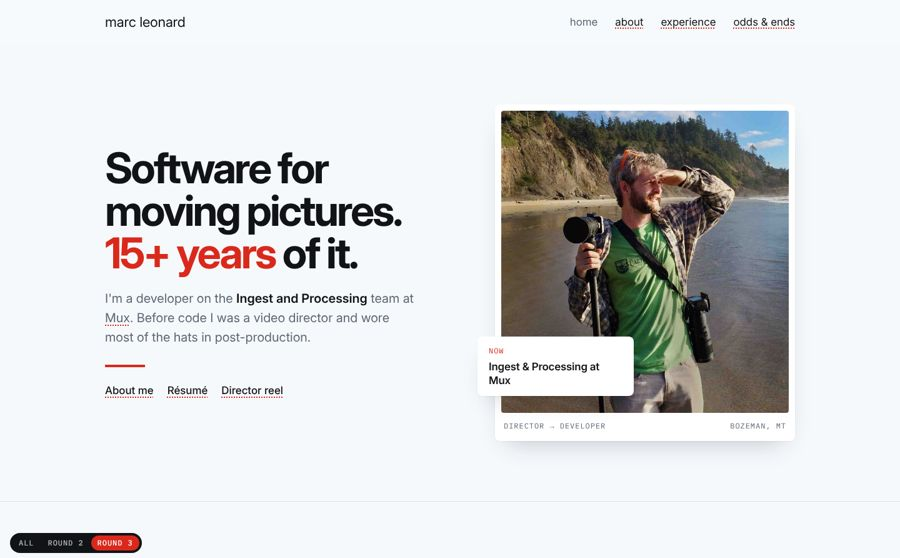
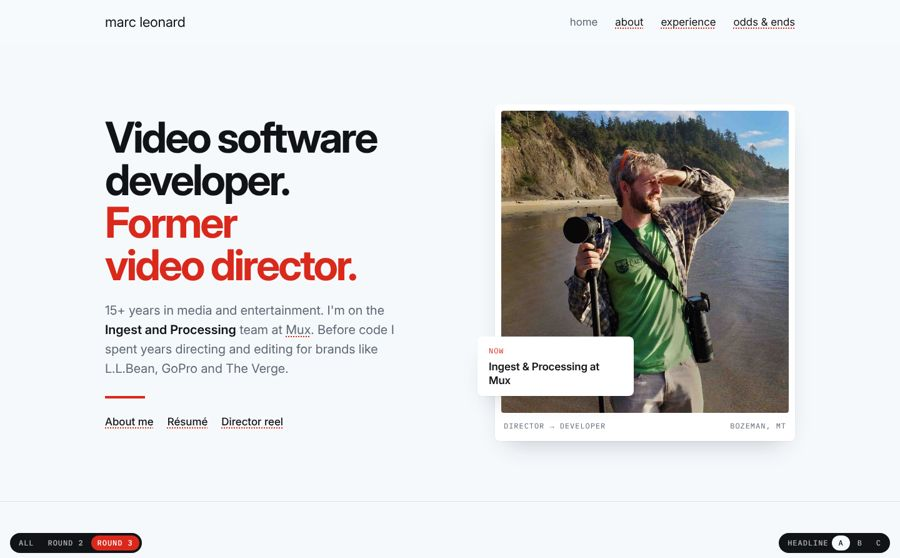
Round 3: Stack-style writing panel for odds & ends, headline options
Claude-Session: https://claude.ai/code/session_01YEp6LGAHyZzXuH8ApkjQx7

Changed region(s): [[0.0933, 0.2133, 0.4667, 0.7921], [0.8711, 0.9444, 0.9956, 1.0]]

diff --git a/designs/v3.html b/designs/v3.html
@@ -142,13 +142,20 @@ section + section { border-top: 1px solid var(--line); }
 .tl-row.edu:hover .tl-bar { border-color: var(--ink); background: none; }
 
 
-/* ---------- odds & ends ---------- */
-.notes { display: grid; grid-template-columns: repeat(3, minmax(0, 1fr)); gap: 20px; }
-.note { display: flex; flex-direction: column; justify-content: space-between; gap: 36px; min-height: 180px; padding: 20px; background: var(--card); border: 1px solid var(--line); border-radius: 10px; text-decoration: none; transition: transform .35s var(--ease), box-shadow .35s var(--ease), border-color .2s; }
-.note:hover, .note:focus-visible { transform: translateY(-3px); box-shadow: var(--shadow); border-color: transparent; }
-.note .t { font-size: 17px; font-weight: 600; letter-spacing: -0.015em; line-height: 1.32; }
-.note .bot { display: flex; justify-content: space-between; align-items: end; gap: 12px; }
-.note .y { font-size: 38px; font-weight: 700; letter-spacing: -0.05em; line-height: .8; color: var(--red); font-variant-numeric: tabular-nums; }
+/* ---------- odds & ends: Stack's writing panel ---------- */
+.writing { display: grid; grid-template-columns: 200px minmax(0, 1fr); gap: clamp(24px, 5vw, 80px); background: var(--card); border: 1px solid var(--line); border-radius: 10px; padding: clamp(24px, 4.5vw, 64px); }
+.writing > * { min-width: 0; }
+.writing .side { display: flex; flex-direction: column; justify-content: space-between; gap: 16px; padding-top: 6px; }
+.writing h2 { font-size: clamp(36px, 5.4vw, 76px); font-weight: 750; letter-spacing: -0.05em; line-height: .95; }
+.posts { list-style: none; margin: clamp(28px, 4vw, 48px) 0 0; padding: 0; }
+.posts li { border-top: 1px solid var(--line); }
+.posts li:last-child { border-bottom: 1px solid var(--line); }
+.posts a { display: grid; grid-template-columns: 112px minmax(0, 1fr); gap: 16px; padding: 18px 0; text-decoration: none; position: relative; }
+.posts a::after { content: ""; position: absolute; left: 0; bottom: -1px; height: 2px; width: 0; background: var(--red); transition: width .4s var(--ease); }
+.posts a:hover::after, .posts a:focus-visible::after { width: 100%; }
+.posts .d { font-family: var(--mono); font-size: 14px; color: var(--muted); padding-top: 3px; font-variant-numeric: tabular-nums; }
+.posts .t { font-size: 19px; font-weight: 550; letter-spacing: -0.01em; line-height: 1.35; }
+.writing .all { display: inline-block; margin-top: 24px; font-weight: 500; }
 
 .foot { padding-block: 40px 120px; border-top: 1px solid var(--line); }
 .foot .wrap { display: flex; justify-content: space-between; align-items: baseline; gap: 16px 32px; flex-wrap: wrap; }
@@ -160,6 +167,11 @@ section + section { border-top: 1px solid var(--line); }
   display: flex; gap: 2px; padding: 4px; border-radius: 999px; background: var(--ink); color: var(--paper);
   font: 500 12px/1 var(--mono); text-transform: uppercase; letter-spacing: .08em;
 }
+.hl-pick { left: auto; right: 16px; view-transition-name: hl-pick; align-items: center; }
+.hl-pick > span:first-child { background: none; color: inherit; opacity: .7; padding-right: 4px; }
+.hl-pick button { font: inherit; text-transform: inherit; letter-spacing: inherit; border: 0; background: none; color: inherit; padding: 6px 10px; border-radius: 999px; cursor: pointer; opacity: .7; }
+.hl-pick button[aria-pressed="true"] { background: var(--paper); color: var(--ink); opacity: 1; }
+.hl-pick button:focus-visible { outline: 2px solid var(--red); outline-offset: 2px; }
 .switcher a, .switcher span { padding: 6px 10px; border-radius: 999px; text-decoration: none; color: inherit; }
 .switcher a { opacity: .7; }
 .switcher a:hover { opacity: 1; }
@@ -175,20 +187,24 @@ section + section { border-top: 1px solid var(--line); }
 @media (max-width: 900px) {
   .hero .wrap { grid-template-columns: 1fr; }
   .portrait { margin: 0 auto; max-width: 440px; }
-  .projects, .notes { grid-template-columns: 1fr 1fr; }
+  .projects { grid-template-columns: 1fr 1fr; }
   .projects .proj:last-child { grid-column: 1 / -1; }
   .projects .proj:last-child .art { aspect-ratio: 16 / 6; }
   .tl-axis, .tl-row { grid-template-columns: 1fr; row-gap: 12px; }
   .tl-axis .legend { order: 2; }
 }
 @media (max-width: 600px) {
-  .projects, .notes { grid-template-columns: 1fr; }
+  .hl-pick { right: auto; left: 16px; bottom: calc(58px + env(safe-area-inset-bottom, 0px)); }
+  .projects { grid-template-columns: 1fr; }
+  .writing { grid-template-columns: 1fr; }
+  .writing .side { flex-direction: row; padding-top: 0; }
+  .posts a { grid-template-columns: 1fr; gap: 2px; }
+  .posts .t { font-size: 17px; }
   .projects .proj:last-child .art { aspect-ratio: 16 / 10; }
   .now-card { left: 12px; bottom: 64px; }
   .tl-label { grid-template-columns: 1fr; }
   .tl-label .yr { grid-row: auto; }
   .tl-label p { grid-column: 1; }
-  .note { min-height: 0; }
 }
 @media (prefers-reduced-motion: reduce) {
   *, *::before, *::after { animation: none !important; transition: none !important; }
@@ -209,8 +225,8 @@ section + section { border-top: 1px solid var(--line); }
   <section class="hero">
     <div class="wrap">
       <div class="hello">
-        <h1>Software for moving pictures. <em>15+ years</em> of it.</h1>
-        <p>I'm a developer on the <strong>Ingest and Processing</strong> team at <a href="https://mux.com">Mux</a>. Before code I was a video director and wore most of the hats in post-production.</p>
+        <h1 id="hl">Video software developer. <em>Former video director.</em></h1>
+        <p id="hp">15+ years in media and entertainment. I'm on the <strong>Ingest and Processing</strong> team at <a href="https://mux.com">Mux</a>. Before code I spent years directing and editing for brands like L.L.Bean, GoPro and The Verge.</p>
         <div class="rule"></div>
         <div class="links"><a href="#">About me</a><a href="https://marcrleonard.com/resume">Résumé</a><a href="https://video.marcrleonard.com">Director reel</a></div>
       </div>
@@ -287,14 +303,20 @@ section + section { border-top: 1px solid var(--line); }
 
   <section id="notes" aria-labelledby="h-notes">
     <div class="wrap">
-      <div class="sect-head"><h2 id="h-notes">odds &amp; ends</h2><span class="label">notes</span></div>
-      <div class="notes">
-        <a class="note" href="https://marcrleonard.com/blog/2026/1/cmaf-vs-ts-metadata"><span class="t">Transport Stream vs CMAF: different philosophies for streaming metadata</span><span class="bot"><span class="y">26</span><span class="label">streaming</span></span></a>
-        <a class="note" href="https://marcrleonard.com/blog/2025/5/pre-commit-hooks-spell-grammar"><span class="t">Automatically check spelling and grammar on git commits</span><span class="bot"><span class="y">25</span><span class="label">development</span></span></a>
-        <a class="note" href="https://marcrleonard.com/blog/2025/2/dead-simple-goroutines-contexts-channels"><span class="t">A dead simple example of goroutines, contexts, and channels</span><span class="bot"><span class="y">25</span><span class="label">go</span></span></a>
-        <a class="note" href="https://marcrleonard.com/blog/2025/1/understanding-cpu-specific-compilation-flags-and-intrinsics"><span class="t">Understanding CPU-specific compilation flags and intrinsics</span><span class="bot"><span class="y">25</span><span class="label">til</span></span></a>
-        <a class="note" href="https://marcrleonard.com/blog/2024/7/Python-Object-Scope"><span class="t">Python object scope and reference counting</span><span class="bot"><span class="y">24</span><span class="label">python</span></span></a>
-        <a class="note" href="https://marcrleonard.com/blog/2024/7/fast-api-async-heavy-work"><span class="t">Running a CPU-heavy task asynchronously in FastAPI</span><span class="bot"><span class="y">24</span><span class="label">python</span></span></a>
+      <div class="writing">
+        <div class="side"><span class="label">odds &amp; ends</span><span class="label">notes &amp; posts</span></div>
+        <div>
+          <h2 id="h-notes">Less than a blog, more than a tweet.</h2>
+          <ol class="posts">
+          <li><a href="https://marcrleonard.com/blog/2026/1/cmaf-vs-ts-metadata"><span class="d">2026·01</span><span class="t">Transport Stream vs CMAF: different philosophies for streaming metadata</span></a></li>
+          <li><a href="https://marcrleonard.com/blog/2025/5/pre-commit-hooks-spell-grammar"><span class="d">2025·05</span><span class="t">Know thyself. Automatically check spelling and grammar on git commits</span></a></li>
+          <li><a href="https://marcrleonard.com/blog/2025/2/dead-simple-goroutines-contexts-channels"><span class="d">2025·02</span><span class="t">A dead simple example of goroutines, contexts, and channels</span></a></li>
+          <li><a href="https://marcrleonard.com/blog/2025/1/understanding-cpu-specific-compilation-flags-and-intrinsics"><span class="d">2025·01</span><span class="t">Understanding CPU-specific compilation flags and intrinsics</span></a></li>
+          <li><a href="https://marcrleonard.com/blog/2024/7/Python-Object-Scope"><span class="d">2024·07</span><span class="t">Python object scope and reference counting</span></a></li>
+          <li><a href="https://marcrleonard.com/blog/2024/7/fast-api-async-heavy-work"><span class="d">2024·07</span><span class="t">Running a CPU-heavy task asynchronously in FastAPI</span></a></li>
+          </ol>
+          <a class="all" href="https://marcrleonard.com/odds-ends">All notes</a>
+        </div>
       </div>
     </div>
   </section>
@@ -307,9 +329,33 @@ section + section { border-top: 1px solid var(--line); }
   </div>
 </footer>
 
+<div class="switcher hl-pick" role="group" aria-label="Headline option"><span>headline</span><button type="button" data-k="0">A</button><button type="button" data-k="1">B</button><button type="button" data-k="2">C</button></div>
 <nav class="switcher" aria-label="Concepts"><a href="index.html">all</a><a href="v2.html">round 2</a><span aria-current="page">round 3</span></nav>
 
 <script>
+// headline options to compare in place (A is what's in the markup)
+(function () {
+  const mux = '<strong>Ingest and Processing</strong> team at <a href="https://mux.com">Mux</a>';
+  const opts = [
+    ["Video software developer. <em>Former video director.</em>",
+     `15+ years in media and entertainment. I'm on the ${mux}. Before code I spent years directing and editing for brands like L.L.Bean, GoPro and The Verge.`],
+    ["I build software for video, <em>after years of making it.</em>",
+     `I'm on the ${mux}. Before code I directed and edited for brands like L.L.Bean, GoPro and The Verge.`],
+    ["Software developer, <em>15+ years</em> in media &amp; entertainment.",
+     `I'm on the ${mux}. Before code I was a video director and wore most of the hats in post-production.`],
+  ];
+  const h = document.getElementById("hl"), p = document.getElementById("hp");
+  const btns = document.querySelectorAll(".hl-pick button");
+  const set = (k) => {
+    h.innerHTML = opts[k][0]; p.innerHTML = opts[k][1];
+    btns.forEach((b) => b.setAttribute("aria-pressed", String(+b.dataset.k === k)));
+    try { localStorage.setItem("hl", k); } catch (e) {}
+  };
+  let k = 0;
+  try { k = +localStorage.getItem("hl") || 0; } catch (e) {}
+  set(opts[k] ? k : 0);
+  btns.forEach((b) => b.addEventListener("click", () => set(+b.dataset.k)));
+})();
 // hairline under the header once the page has scrolled
 const head = document.getElementById("head");
 const onScroll = () => head.classList.toggle("scrolled", scrollY > 8);

diff --git a/designs/index.html b/designs/index.html
@@ -41,7 +41,7 @@
       <div>
         <span class="label">Round 3 · latest</span>
         <h2>Deck, calmer</h2>
-        <p>Deck's look without the deck. A split hero with one still photo card and a small "now" card over its corner. Side projects as cards with little illustrated tops. Experience is a timeline drawn to scale from 2005 to now, so you can see where jobs overlapped. Soft shadows, rounded corners, and the Odds &amp; Ends cards.</p>
+        <p>Deck's look without the deck. A split hero with one still photo card and a small "now" card over its corner. Side projects as cards with little illustrated tops. Experience is a timeline drawn to scale from 2005 to now, so you can see where jobs overlapped. Odds &amp; Ends uses Stack's writing panel. A switch in the bottom-right swaps between three headline options.</p>
         <span class="go">open round 3 →</span>
       </div>
       <div class="shot"><img src="img/thumb-v3.jpg" alt="Preview of the round 3 design"></div>
